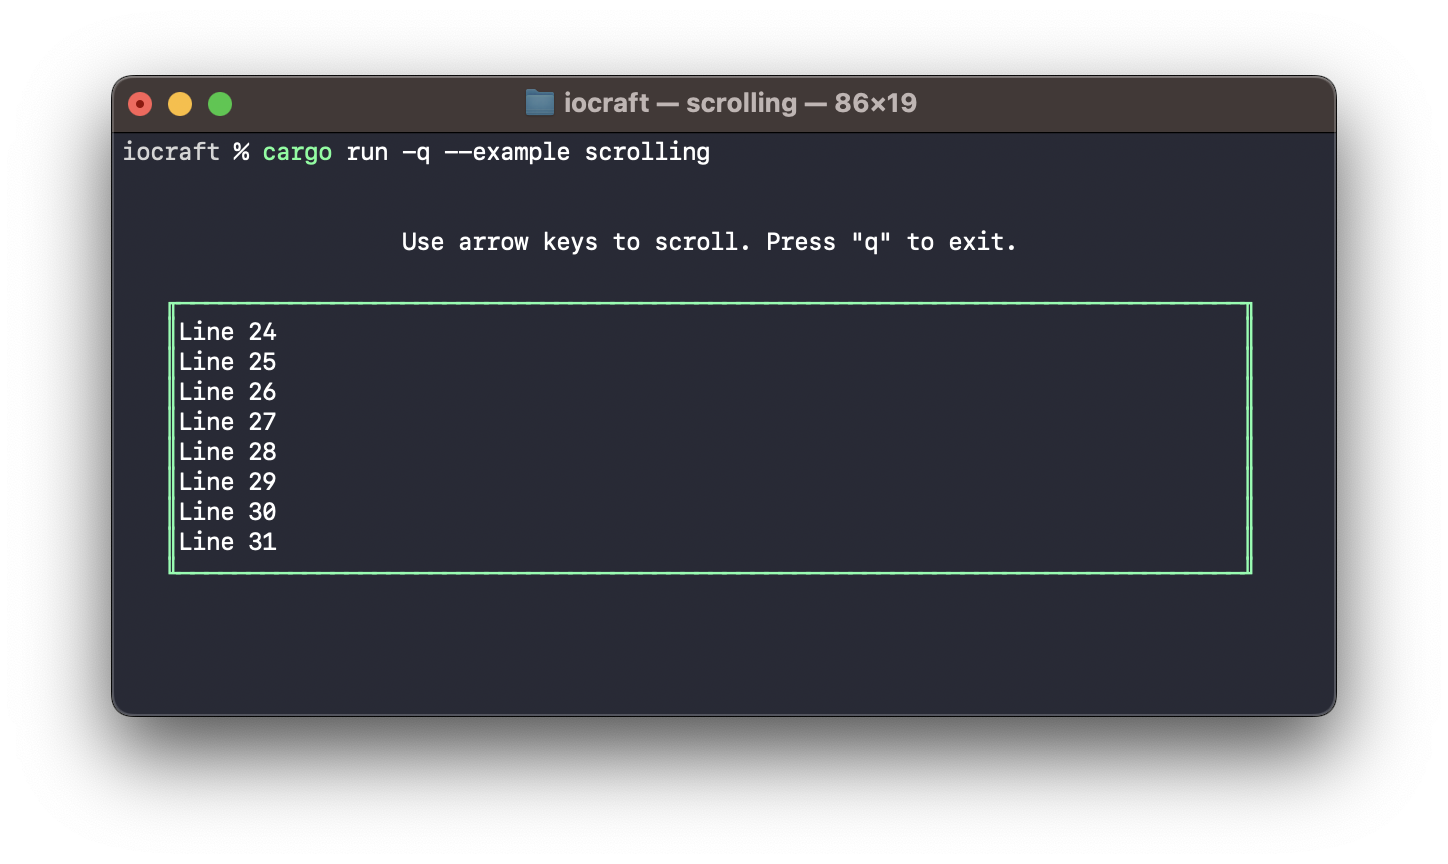
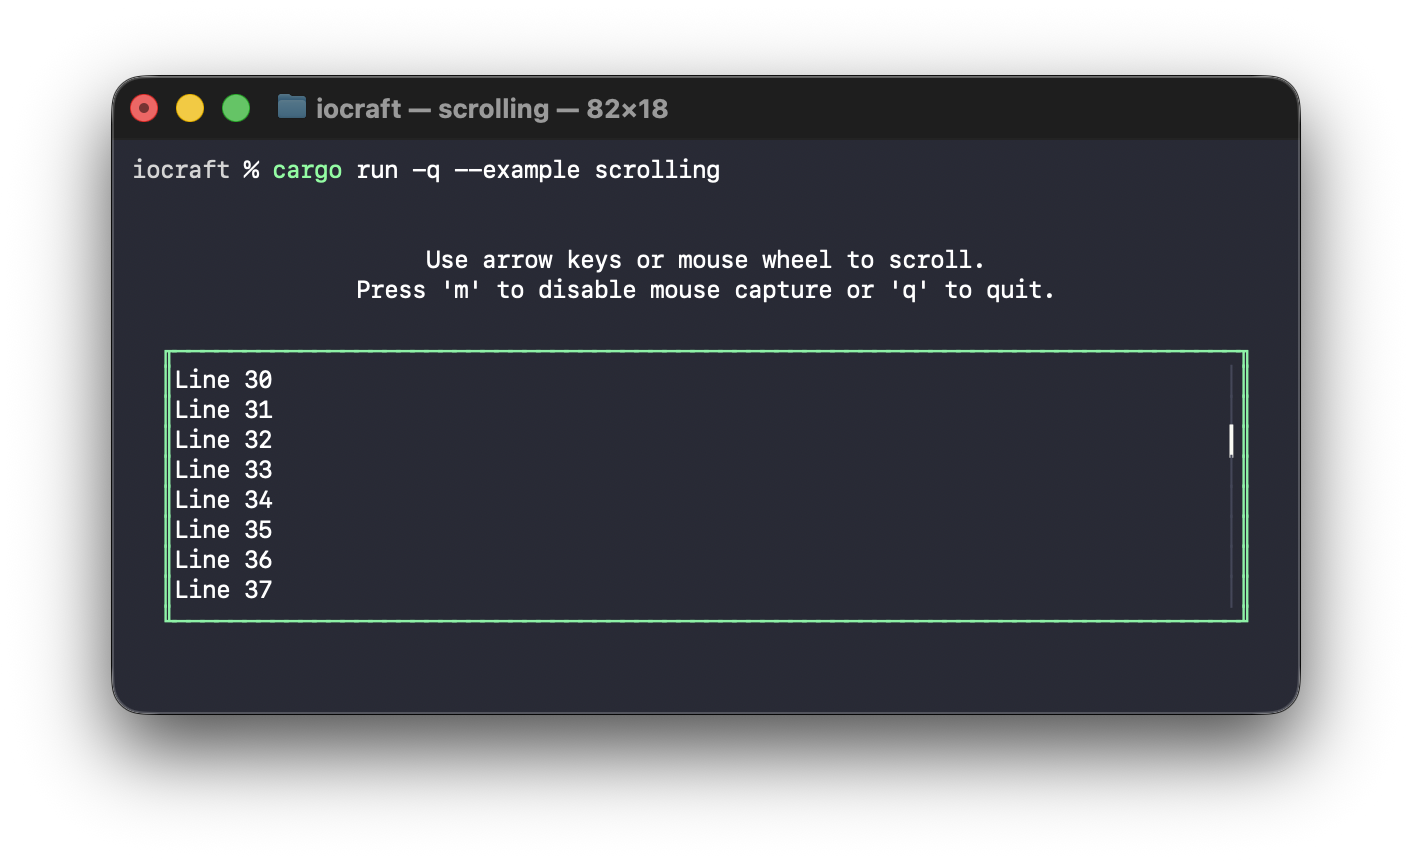
chore: update scrolling example description/screenshot (#171)

Changed region(s): [[0.0623, 0.0905, 0.9348, 0.8445]]

diff --git a/examples/scrolling.rs b/examples/scrolling.rs
@@ -30,22 +30,21 @@ fn Example<'a>(props: &Props<'a>, mut hooks: Hooks) -> impl Into<AnyElement<'sta
 
     system.set_mouse_capture(mouse_captured.get());
 
-    let mouse_status = if mouse_captured.get() { "on" } else { "off" };
-
     element! {
         View(
             flex_direction: FlexDirection::Column,
             padding: 2,
             align_items: AlignItems::Center
         ) {
-            Text(content: format!(
-                "Arrow keys/mouse wheel to scroll, 'm' to toggle mouse capture ({}), 'q' to exit",
-                mouse_status
-            ))
+            Text(content: if mouse_captured.get() {
+                "Use arrow keys or mouse wheel to scroll.\nPress 'm' to disable mouse capture or 'q' to quit."
+            } else {
+                "Use arrow keys to scroll.\nPress 'm' to enable mouse capture or 'q' to quit."
+            }, align: TextAlign::Center)
             View(
                 border_style: BorderStyle::DoubleLeftRight,
                 border_color: Color::Green,
-                margin: 1,
+                margin_top: 1,
                 width: 78,
                 height: 10,
             ) {

diff --git a/examples/README.md b/examples/README.md
@@ -17,7 +17,7 @@ To run any of the examples, use `cargo run --example NAME`. For example, to run 
 |[hello_world.rs](./hello_world.rs)<br />Hello, world!|![preview](./images/hello-world.png)|
 |[overlap.rs](./overlap.rs)<br />Uses absolute positioning to create overlapping elements.|![preview](./images/overlap.png)|
 |[progress_bar.rs](./progress_bar.rs)<br />Renders a dynamic progress bar which fills up and then exits.|![preview](./images/progress_bar.png)|
-|[scrolling.rs](./scrolling.rs)<br />Demonstrates using the overflow property to implement scrollable text.|![preview](./images/scrolling.png)|
+|[scrolling.rs](./scrolling.rs)<br />Demonstrates using `ScrollView` to implement scrollable text.|![preview](./images/scrolling.png)|
 |[table.rs](./table.rs)<br />Displays a list of users provided by reference via properties.|![preview](./images/table.png)|
 |[use_input.rs](./use_input.rs)<br />Demonstrates using keyboard input to move a 👾.|![preview](./images/use_input.png)|
 |[use_output.rs](./use_output.rs)<br />Continuously logs text output above the rendered component.|![preview](./images/use_output.png)|
